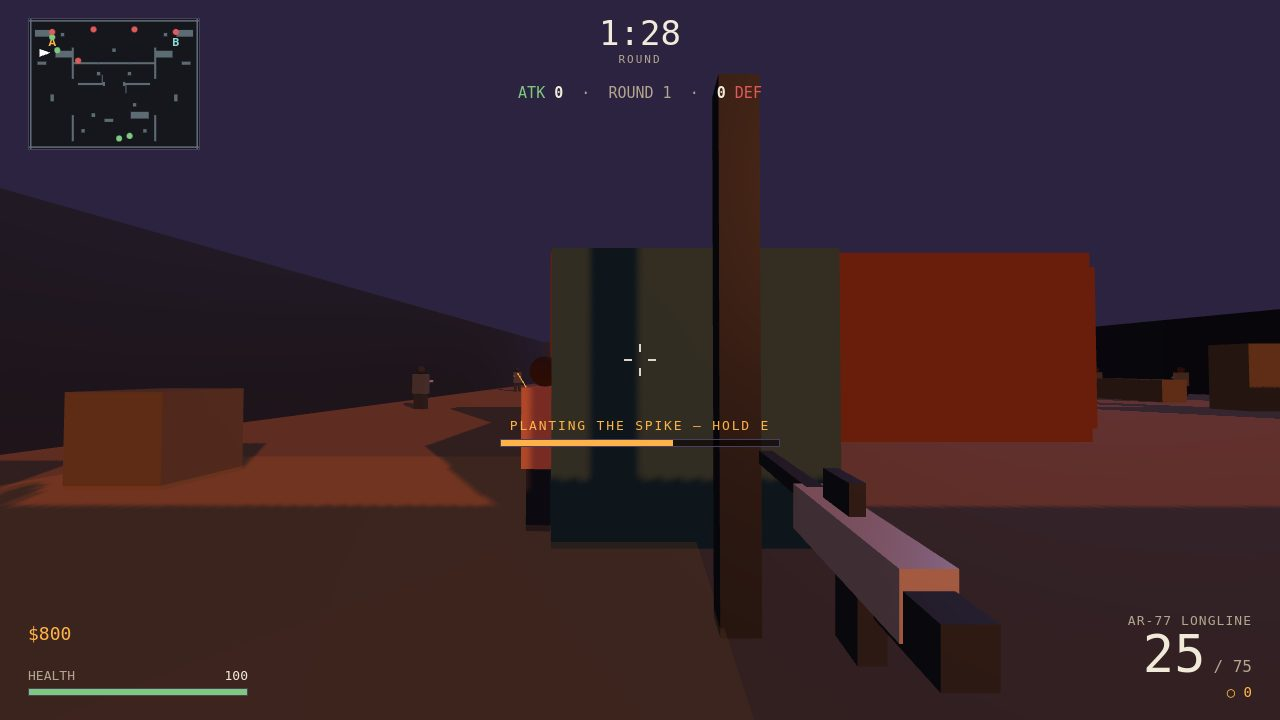
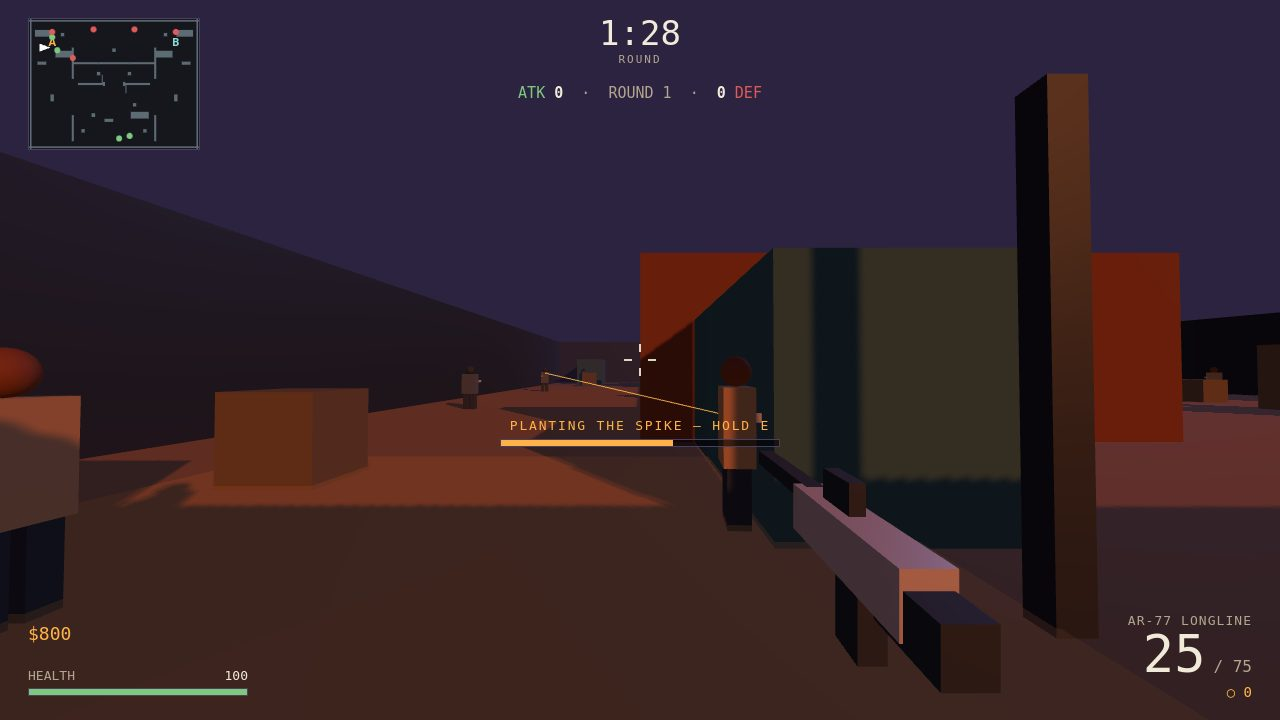
Play-test revisions: death overlay, round win/lose sounds, dossier size log
- Dead players now get a 'You are down / Spectate' overlay instead of the
  misleading 'Paused' panel when pointer lock is lost.
- A lost round now plays the lose sting instead of the win chime (the
  player is always an attacker).
- main.ts prints the dossier byte size so a cap breach is caught at build
  time, not at submission.
- Refreshed fight and plant screenshots from the final code.

diff --git a/game/src/main.js b/game/src/main.js
@@ -123,7 +123,9 @@ function onLockChange(locked) {
   } else if (phase === 'matchEnd') {
     hud.showOverlay('matchEnd', `${match.state.matchWinner === 'atk' ? 'Attackers' : 'Defenders'} take Yard 7, ${match.state.score.atk} — ${match.state.score.def}.`);
   } else if (!body.alive) {
-    hud.showOverlay('paused');
+    // Dead players do not get a "paused" panel: they are spectating until the next
+    // round, and the button says so.
+    hud.showOverlay('down');
   } else {
     hud.showOverlay('paused');
   }
@@ -368,8 +370,10 @@ function step(dt) {
     roundEndAt = elapsed + 2.5;
     const winner = m.roundWinner === 'atk' ? 'Attackers' : 'Defenders';
     hud.banner(`${winner} win round ${m.round} — ${m.roundReason}`);
-    if (m.phase === 'roundEnd') audio.roundWin();
-    else audio.roundWin();
+    // The player is always an attacker: a round the attackers take is a win, and the
+    // other way is a loss, and they should sound different.
+    if (m.roundWinner === 'atk') audio.roundWin();
+    else audio.roundLose();
     if (m.phase === 'matchEnd') hud.banner(`${winner} take Yard 7, ${m.score.atk} — ${m.score.def}`);
   }
   if ((m.phase === 'roundEnd' || m.phase === 'matchEnd') && roundEndAt > 0 && elapsed >= roundEndAt) {

diff --git a/main.ts b/main.ts
@@ -10,7 +10,7 @@
 // Outside the grader's container, MAKEFUN_OUTPUT_DIR stands in for /output:
 //   mkdir -p out && MAKEFUN_OUTPUT_DIR=out node main.ts
 
-import { cpSync, existsSync, mkdirSync, writeFileSync } from 'node:fs';
+import { cpSync, existsSync, mkdirSync, statSync, writeFileSync } from 'node:fs';
 import { join } from 'node:path';
 import { fileURLToPath } from 'node:url';
 import { buildDossier } from './vendor/makefun-threejs.ts';
@@ -33,4 +33,7 @@ writeFileSync(
 );
 
 // A line for the humans running this by hand: the dossier is written, the entry is ready.
-console.log(`SANDLINE dossier written to ${out}/dossier.json`);
+// The size is printed because the gate caps dossier.json at 1.5 MiB — a number that has
+// quietly crept past the cap before is caught here, not at submission.
+const dossierBytes = statSync(join(out, 'dossier.json')).size;
+console.log(`SANDLINE dossier written to ${out}/dossier.json (${dossierBytes} bytes)`);

diff --git a/game/src/hud.js b/game/src/hud.js
@@ -15,6 +15,11 @@ const COPY = {
     copy: 'Paused. Click to resume.',
     action: 'Click to resume',
   },
+  down: {
+    title: 'You are down',
+    copy: 'Your team fights on without you. The round continues — watch it play out, and you will be back next round.',
+    action: 'Spectate',
+  },
   roundEnd: {
     title: 'Round over',
     copy: '',
